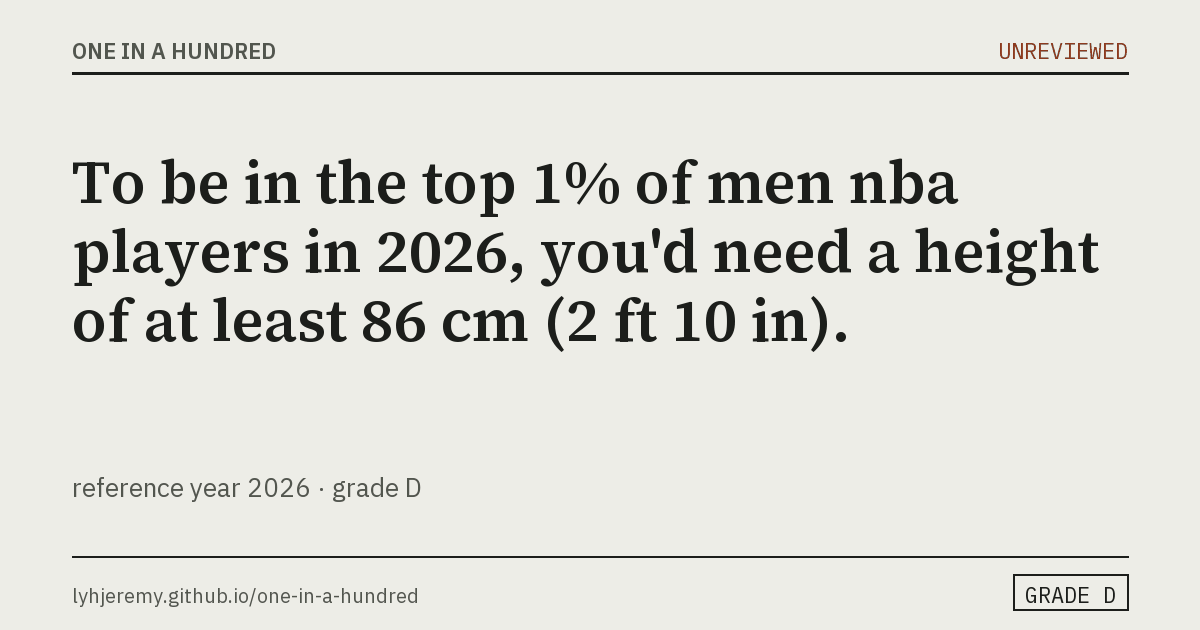
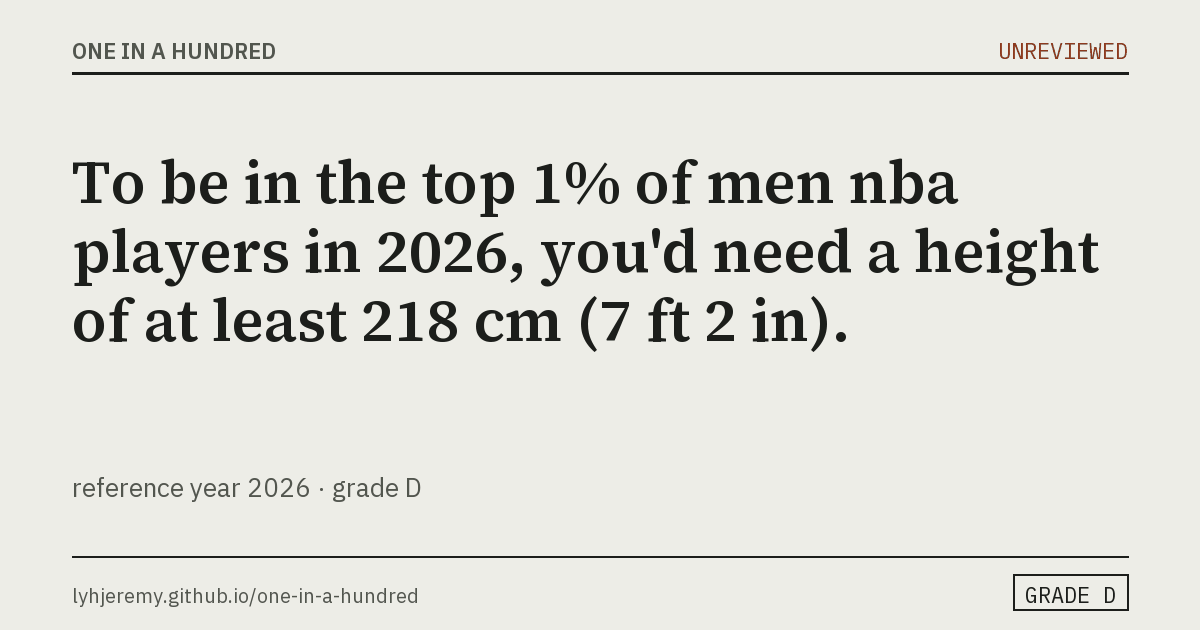
Fix NBA height unit slip and guard researched values by range
The researched NBA fact gave 86 (inches) for a centimetre measure. Converted
to 218 cm; build_facts now skips researched facts on catalogue measures that
fall more than 1.5x outside the curated range.

Changed region(s): [[0.2775, 0.4524, 0.6167, 0.573]]

diff --git a/f/height_adult_cm.world.m.nba_players.2026/index.html b/f/height_adult_cm.world.m.nba_players.2026/index.html
@@ -1,21 +1,21 @@
 <!doctype html>
 <html lang="en"><head><meta charset="utf-8"><meta name="viewport" content="width=device-width, initial-scale=1">
-<title>To be in the top 1% of men nba players in 2026, you&#x27;d need a height of at least 86 cm (2 ft 10 in).</title>
+<title>To be in the top 1% of men nba players in 2026, you&#x27;d need a height of at least 218 cm (7 ft 2 in).</title>
 <meta name="description" content="reference year 2026 · grade D">
-<meta property="og:title" content="To be in the top 1% of men nba players in 2026, you&#x27;d need a height of at least 86 cm (2 ft 10 in)."><meta property="og:description" content="reference year 2026 · grade D">
+<meta property="og:title" content="To be in the top 1% of men nba players in 2026, you&#x27;d need a height of at least 218 cm (7 ft 2 in)."><meta property="og:description" content="reference year 2026 · grade D">
 <meta property="og:type" content="article"><meta property="og:url" content="https://lyhjeremy.github.io/one-in-a-hundred/f/height_adult_cm.world.m.nba_players.2026/">
 <meta property="og:image" content="https://lyhjeremy.github.io/one-in-a-hundred/cards/height_adult_cm.world.m.nba_players.2026.png"><meta property="og:image:width" content="1200"><meta property="og:image:height" content="630">
-<meta name="twitter:card" content="summary_large_image"><meta name="twitter:title" content="To be in the top 1% of men nba players in 2026, you&#x27;d need a height of at least 86 cm (2 ft 10 in)."><meta name="twitter:description" content="reference year 2026 · grade D"><meta name="twitter:image" content="https://lyhjeremy.github.io/one-in-a-hundred/cards/height_adult_cm.world.m.nba_players.2026.png">
+<meta name="twitter:card" content="summary_large_image"><meta name="twitter:title" content="To be in the top 1% of men nba players in 2026, you&#x27;d need a height of at least 218 cm (7 ft 2 in)."><meta name="twitter:description" content="reference year 2026 · grade D"><meta name="twitter:image" content="https://lyhjeremy.github.io/one-in-a-hundred/cards/height_adult_cm.world.m.nba_players.2026.png">
 <link rel="stylesheet" href="../../assets/ledger.css"><link rel="stylesheet" href="../../assets/app.css"></head>
 <body><main class="wrap">
 <p class="kicker"><a href="../../">One in a Hundred</a></p>
 <p class="unrev">Unreviewed: researched automatically, not yet checked by a person.</p>
-<h1 class="punchline">To be in the top 1% of men nba players in 2026, you&#x27;d need a height of at least 86 cm (2 ft 10 in).</h1>
+<h1 class="punchline">To be in the top 1% of men nba players in 2026, you&#x27;d need a height of at least 218 cm (7 ft 2 in).</h1>
 <p class="subline"><span class="grade d">Grade D</span>reference year 2026 · grade D</p>
 <p>Researched automatically on 2026-10-15; not yet checked by a person.</p>
-<h2>Definition</h2><p>Official NBA listed height, without shoes (the league has required barefoot measurements since 2019-20), for players on 2025-26 rosters. Gives the ten tallest players, not the full distribution.</p><p>Neither source is independent: both rest on the NBA&#x27;s own listed heights, through SI and Basketball-Reference. No official NBA publication or peer-reviewed paper gives height percentiles for the whole league. The p99 is a rank cutoff on a small population of roughly 550 players, so it amounts to the sixth or so tallest player, and it moves by a full inch depending on who is counted (two-way and G League call-ups such as Zikarsky). Wembanyama&#x27;s height is disputed: some reports say the Spurs listed him at 7&#x27;5&quot; for 2025-26. Comparison on a different population: a peer-reviewed summary of ten years of NBA Draft Combine data (PMC10593457) gives 197.7 ± 7.6 cm, range 181.6-212.7 cm. That covers draft prospects, not league players. The suggested value is about 218 cm (7&#x27;2&quot;), with 221 cm (7&#x27;3&quot;) as the upper bound.</p>
+<h2>Definition</h2><p>Official NBA listed height, without shoes (the league has required barefoot measurements since 2019-20), for players on 2025-26 rosters. Gives the ten tallest players, not the full distribution.</p><p>Neither source is independent: both rest on the NBA&#x27;s own listed heights, through SI and Basketball-Reference. No official NBA publication or peer-reviewed paper gives height percentiles for the whole league. The p99 is a rank cutoff on a small population of roughly 550 players, so it amounts to the sixth or so tallest player, and it moves by a full inch depending on who is counted (two-way and G League call-ups such as Zikarsky). Wembanyama&#x27;s height is disputed: some reports say the Spurs listed him at 7&#x27;5&quot; for 2025-26. Comparison on a different population: a peer-reviewed summary of ten years of NBA Draft Combine data (PMC10593457) gives 197.7 ± 7.6 cm, range 181.6-212.7 cm. That covers draft prospects, not league players. The suggested value is about 218 cm (7&#x27;2&quot;), with 221 cm (7&#x27;3&quot;) as the upper bound. The model returned this value in inches (86); it was converted to centimetres at build review.</p>
 <h2>Sources</h2>
-<div class="table-scroll"><table class="sources-table"><thead><tr><th>Source</th><th>Measures</th><th class="num">Value here</th><th>Accessed</th></tr></thead><tbody><tr><td><a href="https://www.si.com/nba/tallest-players-all-time">Sports Illustrated, &#x27;Tallest NBA Players of 2025–26 (and All Time)&#x27; (table taken from the NBA&#x27;s official roster listings)</a></td><td>Official NBA listed height, without shoes (the league has required barefoot measurements since 2019-20), for players on 2025-26 rosters. Gives the ten tallest players, not the full distribution.</td><td class="num">86 cm (2 ft 10 in)</td><td>2026-10-15</td></tr></tbody></table></div>
+<div class="table-scroll"><table class="sources-table"><thead><tr><th>Source</th><th>Measures</th><th class="num">Value here</th><th>Accessed</th></tr></thead><tbody><tr><td><a href="https://www.si.com/nba/tallest-players-all-time">Sports Illustrated, &#x27;Tallest NBA Players of 2025–26 (and All Time)&#x27; (table taken from the NBA&#x27;s official roster listings)</a></td><td>Official NBA listed height, without shoes (the league has required barefoot measurements since 2019-20), for players on 2025-26 rosters. Gives the ten tallest players, not the full distribution.</td><td class="num">218 cm (7 ft 2 in)</td><td>2026-10-15</td></tr></tbody></table></div>
 <p>One source, no spread to show.</p>
 <p><a class="btn" href="../../?f=height_adult_cm.world.m.nba_players.2026&q=99">Open the live screen with this group</a> <a class="btn" href="../../cards/height_adult_cm.world.m.nba_players.2026.png" download>Download card</a></p>
 <p class="small">Numbers can be wrong; the grade says how likely. <a href="../../overview/">How this works</a> · <a href="../../privacy/">Privacy</a></p>

diff --git a/pipeline/build_facts.py b/pipeline/build_facts.py
@@ -153,6 +153,14 @@ def main() -> int:
         METRICS["metrics"].setdefault(mid, m)
     METRICS["activities"].update(extra["activities"])
 
+    # Value range of each curated measure, to catch researched facts in the wrong unit.
+    curated_range: dict[str, tuple[float, float]] = {}
+    for facts in facts_by_family.values():
+        for cf in facts:
+            vals = list(cf["grid"].values())
+            lo, hi = curated_range.get(cf["metric"], (min(vals), max(vals)))
+            curated_range[cf["metric"]] = (min(lo, *vals), max(hi, *vals))
+
     # Queued facts from the research loop ship alongside, flagged by status.
     for p in sorted(INBOX.glob("*.json")):
         f = json.loads(p.read_text())
@@ -163,6 +171,11 @@ def main() -> int:
         if errs:
             # A bad research result must never break the build; it waits for review.
             print(f"inbox: skipping {f['id']}: {'; '.join(errs)}")
+            continue
+        lo_hi = curated_range.get(f["metric"])
+        if lo_hi and any(v < lo_hi[0] / 1.5 or v > lo_hi[1] * 1.5 for v in f["grid"].values()):
+            # Usually a unit slip (inches given for a centimetre measure).
+            print(f"inbox: skipping {f['id']}: values {f['grid']} far outside curated range {lo_hi}")
             continue
         fam = METRICS["metrics"][f["metric"]]["family"]
         facts_by_family[fam].append(f)

diff --git a/CHANGELOG.md b/CHANGELOG.md
@@ -8,6 +8,7 @@ v0.1 to v0.3 shipped on 2026-10-14; v0.3.1 on 2026-10-15.
 - `research_queue.py --from-file` is resumable: questions already researched are listed in `pipeline/seeds/done.txt` and skipped, so a run that stops on quota picks up where it left off.
 - `build_facts.py` registers a group introduced by a researched fact on an existing measure (height of NBA players), which had crashed the share-card renderer.
 - A single age as a group ("aged 20") formats in both `format.py` and `format.js` instead of raising; parity fixtures still agree.
+- The NBA height fact came back in inches (86) under a centimetre measure and went live reading "at least 86 cm"; corrected to 218 cm. `build_facts.py` now skips a researched fact on a catalogue measure whose values fall outside the curated range for that measure by more than a factor of 1.5, which catches that slip.
 - Rules parser unchanged at 90.5% on the frozen gold set after the new measures joined the catalogue.
 
 ## v0.3: three columns, five modes, the curve, researched measures
